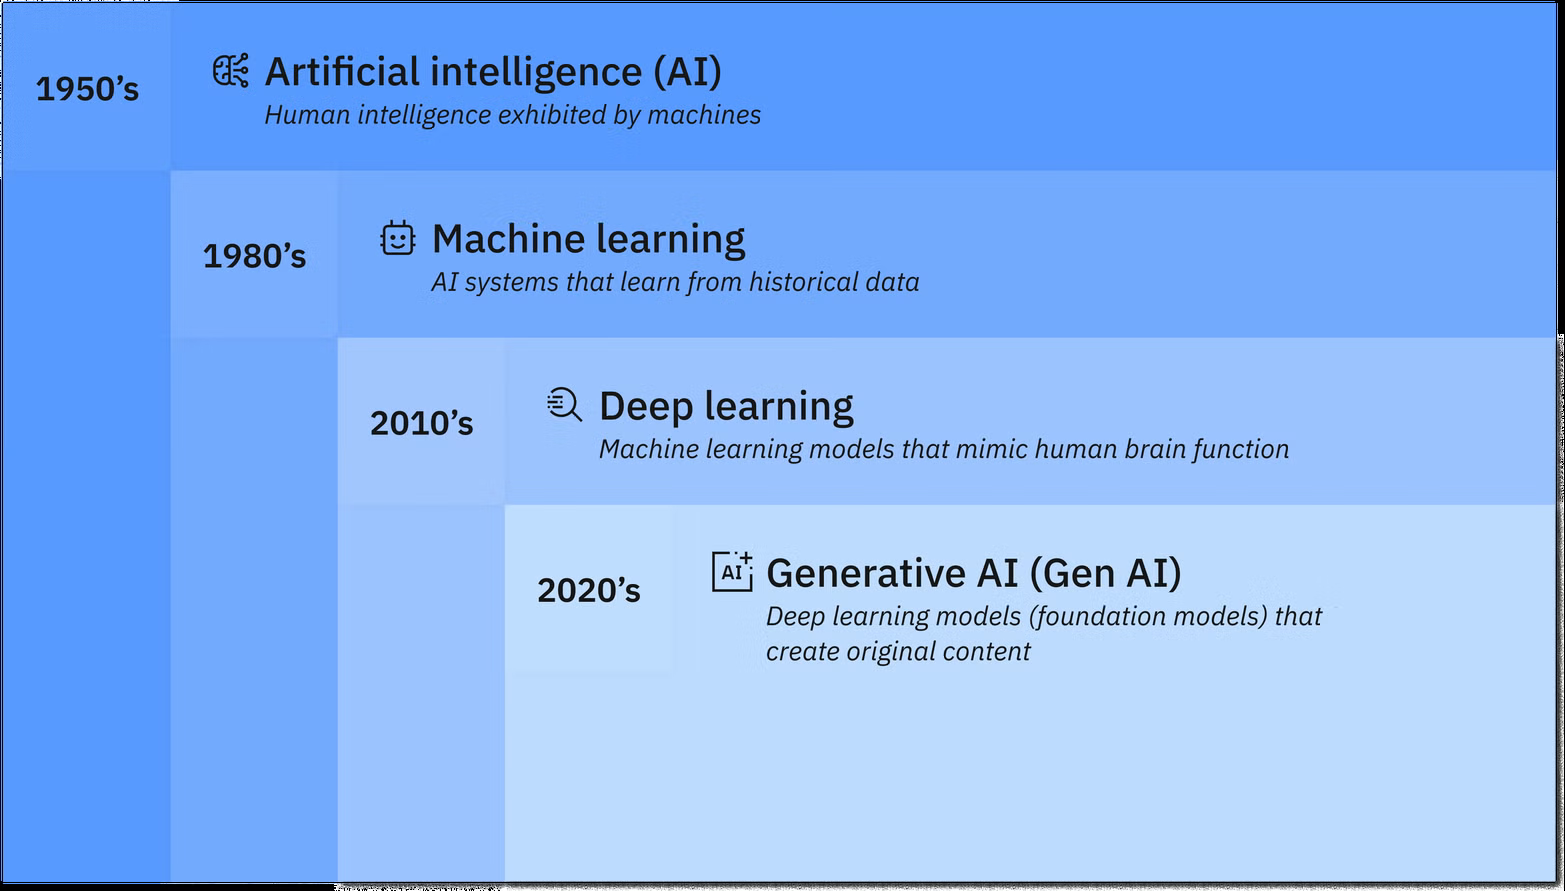
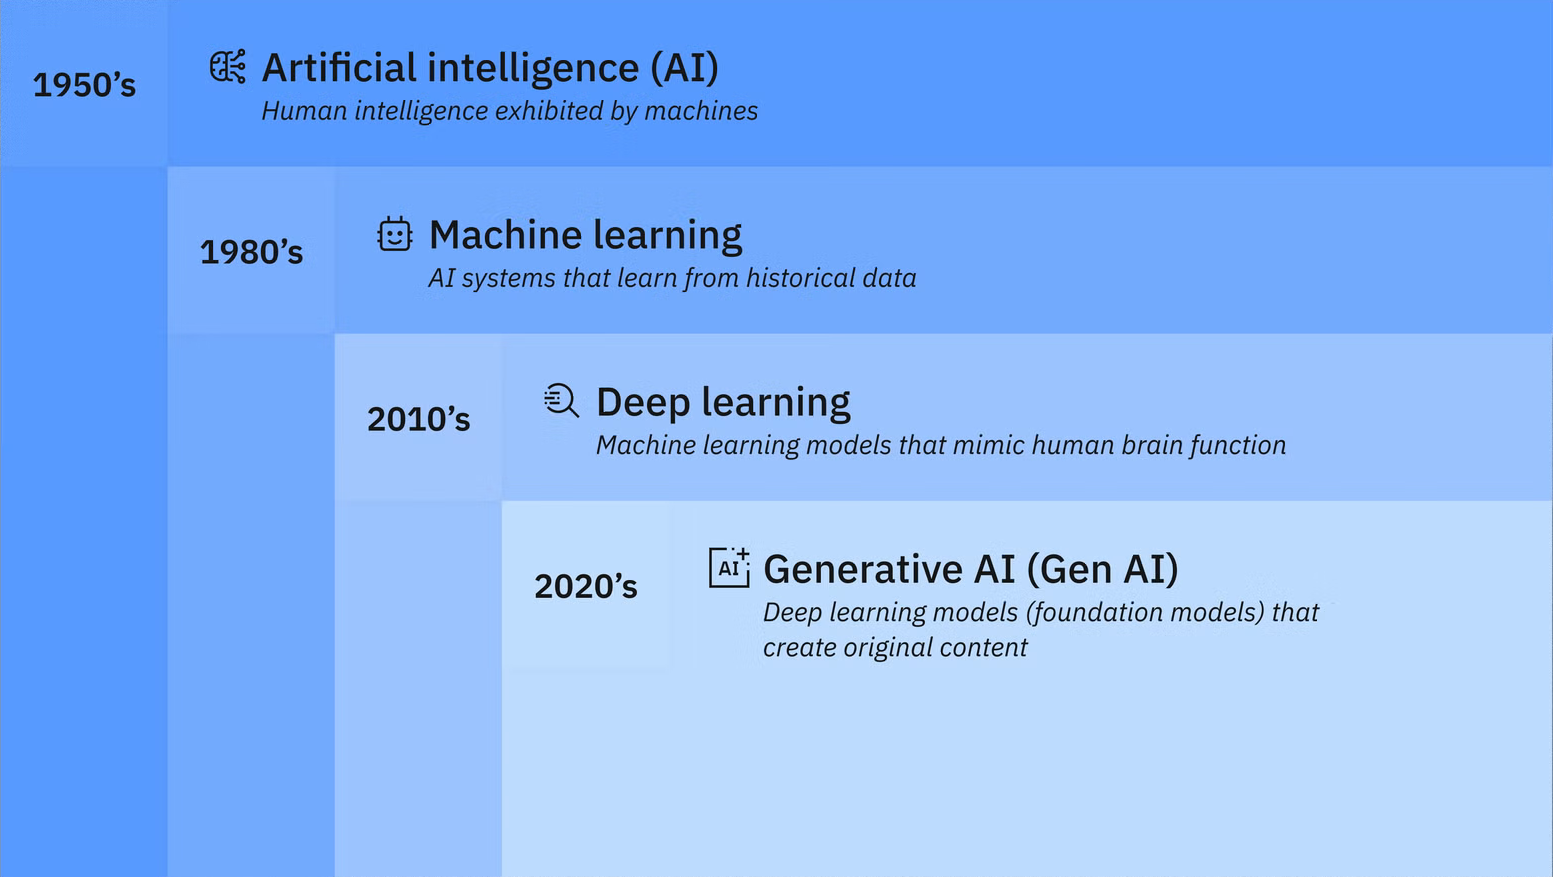
Tweak beamer settings and add bash render script

diff --git a/presentation.md b/presentation.md
@@ -6,6 +6,12 @@ toc: yes
 reference-section-title: References
 ---
 
+# Technology & Magic
+
+> Any sufficiently advanced technology is indistinguishable from magic.[^AClark]
+
+[^AClark]: Clarke, Arthur C. (1973). *Profiles of the future: an inquiry into the limits of the possible* (Rev. ed.). New York London: Harper & Row. ISBN 978-0-06-010792-5.
+
 
 # A Joke for a Friend
 
@@ -63,11 +69,6 @@ Is it...
   - magic?
 
 
-## Technology
-
-> Any sufficiently advanced technology is indistinguishable from magic.[^AClark]
-
-[^AClark]: Clarke, Arthur C. (1973). *Profiles of the future: an inquiry into the limits of the possible* (Rev. ed.). New York London: Harper & Row. ISBN 978-0-06-010792-5.
 
 
 # What Will We Cover?